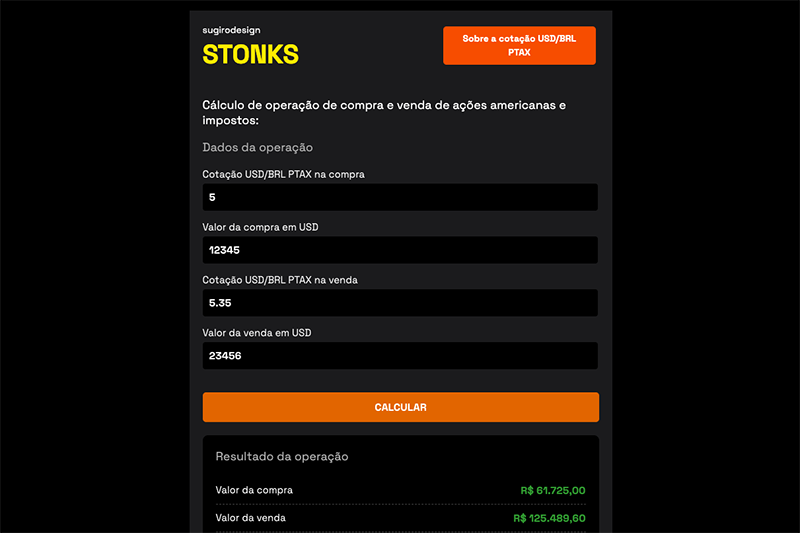
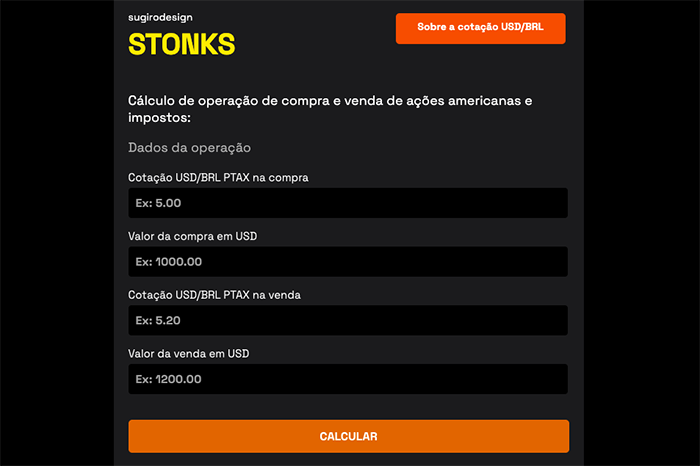
Update homepage title and language switcher

diff --git a/src/styles/global.css b/src/styles/global.css
@@ -115,9 +115,9 @@ strong {
 }
 
 .site-title {
-  font-size: 1.35rem;
+  font-size: 2rem;
   font-weight: 600;
-  letter-spacing: -0.03em;
+  letter-spacing: -0.05em;
   text-decoration: none;
 }
 
@@ -137,26 +137,45 @@ strong {
 .menu-locale-switcher {
   display: inline-flex;
   align-items: center;
-  gap: 10px;
+  gap: 6px;
   margin-top: 18px;
   padding-top: 18px;
-  border-top: 4px solid #ddd;
+  border-top: 2px solid #ddd;
 }
 
 .locale-link {
-  color: var(--muted);
+  display: inline-flex;
+  align-items: center;
+  justify-content: center;
+  width: 38px;
+  height: 38px;
+  border: 0;
+  border-radius: 50%;
+  padding: 0;
+  background: #eee;
+  color: #000;
   text-decoration: none;
-  font-size: 0.9rem;
+  font-size: 0.85rem;
+  font-weight: 700;
   line-height: 1;
+  transition:
+    background-color 180ms ease,
+    color 180ms ease;
 }
 
 .locale-link.active {
-  color: var(--text);
-  font-weight: 600;
+  background: #000;
+  color: #fff;
 }
 
 .locale-link:hover {
-  color: var(--accent);
+  background: var(--accent);
+  color: #fff;
+}
+
+.locale-link.active:hover {
+  background: #000;
+  color: #fff;
 }
 
 .nav-link,
@@ -491,6 +510,10 @@ section {
   margin-top: 28px;
 }
 
+.home-section {
+  margin-top: 0;
+}
+
 .section-head {
   display: flex;
   align-items: end;
@@ -740,15 +763,11 @@ pre {
   font-size: 1.05rem;
 }
 
-.home-intro {
-  padding: 56px 0 24px;
-}
-
 .home-lead {
-  max-width: 72ch;
-  color: var(--muted);
-  line-height: 1.7;
-  margin: 16px 0 0;
+  color: #000;
+  line-height: 1.25;
+  font-weight: 300;
+  margin: 20px 0 24px;
 }
 
 .project-grid {

diff --git a/src/data/projects.ts b/src/data/projects.ts
@@ -1,4 +1,4 @@
-export const siteTitle = "AI Projects / Tech Stacks";
+export const siteTitle = "Tech Stacks";
 
 export type Locale = "en" | "pt";
 